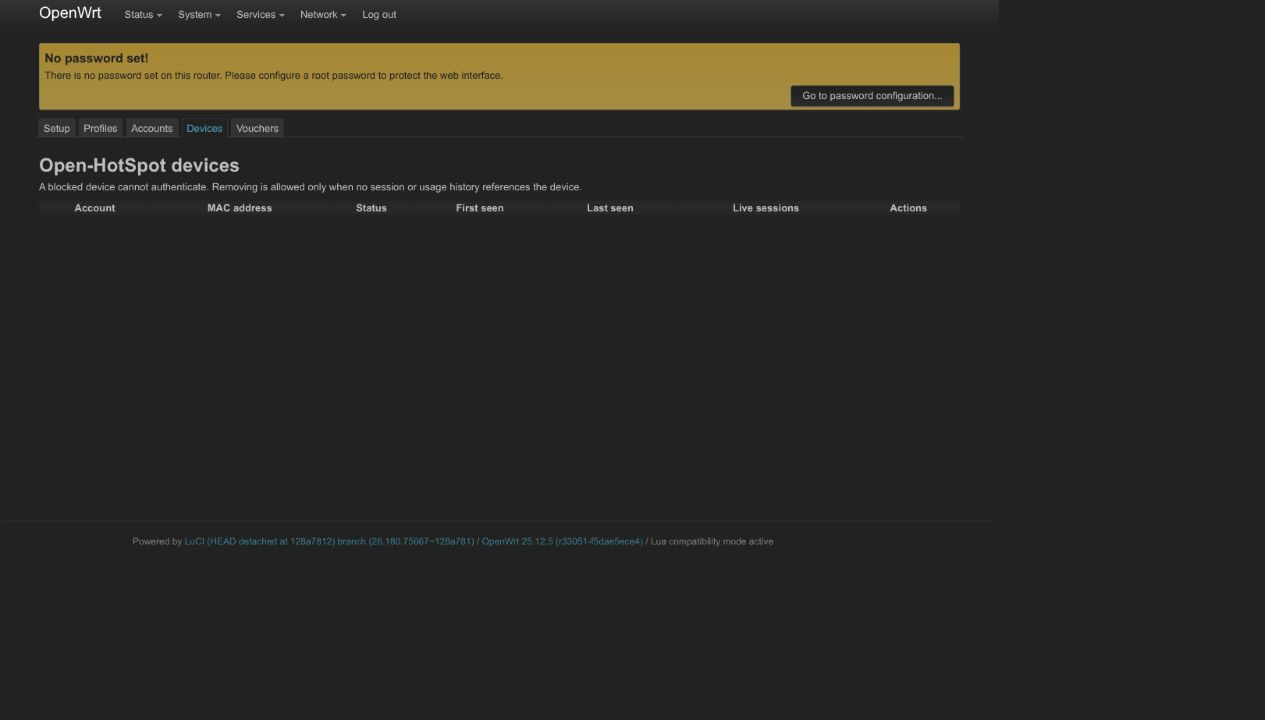
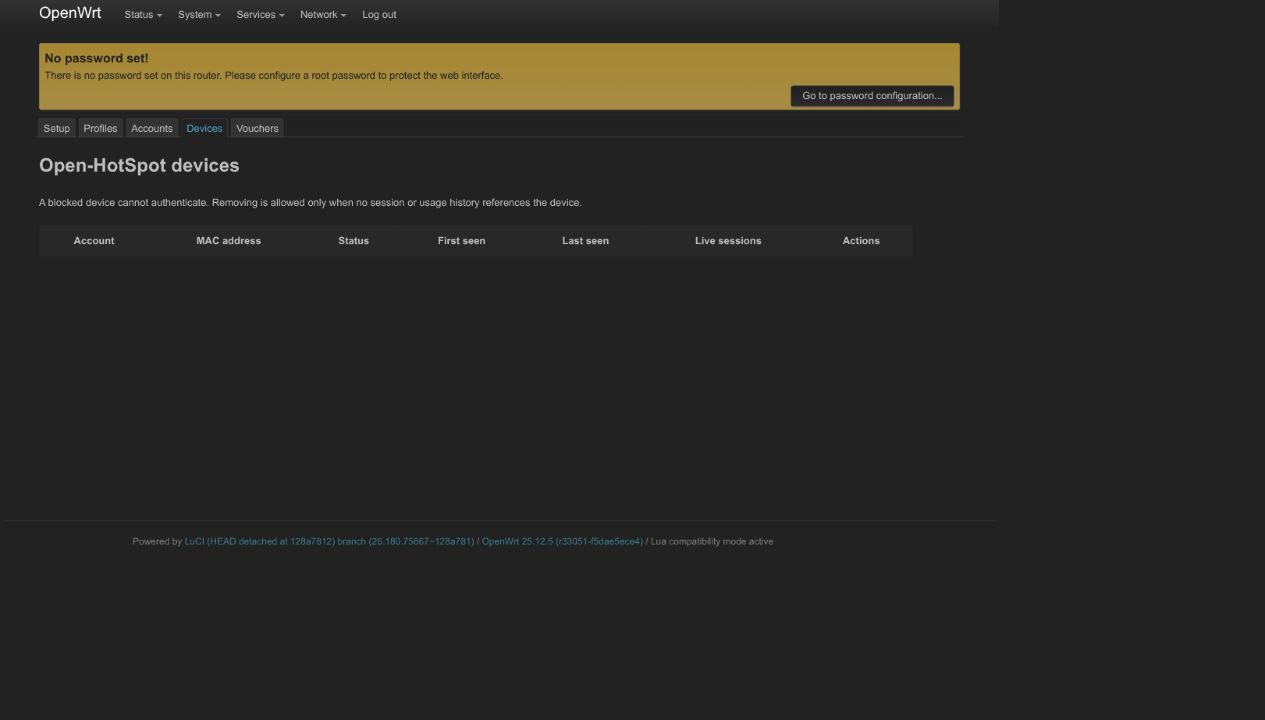
Improve FAS compatibility and LuCI layout

diff --git a/starter-kit/luasrc/view/open-hotspot/accounts.htm b/starter-kit/luasrc/view/open-hotspot/accounts.htm
@@ -1,11 +1,12 @@
 <%+header%>
+<div class="oh-page">
 <h2><%:Open-HotSpot accounts%></h2>
 <% if page_error ~= "" then %><div class="alert-message"><%=pcdata(page_error)%></div><% end %>
 <% if page_message ~= "" then %><div class="alert-message success"><%=pcdata(page_message)%></div><% end %>
 
 <fieldset class="cbi-section">
 <legend><%:Create account%></legend>
-<form method="post" action="<%=page_url%>">
+<form class="oh-form" method="post" action="<%=page_url%>">
 <input type="hidden" name="token" value="<%=pcdata(token)%>" /><input type="hidden" name="action" value="create" />
 <div class="cbi-value"><label><%:Username%></label><input name="username" required maxlength="64" /></div>
 <div class="cbi-value"><label><%:PIN%></label><input name="pin" required type="password" inputmode="numeric" minlength="4" maxlength="32" /></div>
@@ -15,27 +16,31 @@
 </form>
 </fieldset>
 
+<div class="oh-table-wrap">
 <table class="table cbi-section-table">
 <tr class="tr table-titles"><th><%:Username%></th><th><%:Profile%></th><th><%:Status%></th><th><%:Expiry%></th><th><%:Actions%></th></tr>
 <% for _, account in ipairs(accounts) do %>
 <tr class="tr">
 <td colspan="5">
-<form method="post" action="<%=page_url%>">
+<form class="oh-record-form oh-account-update" method="post" action="<%=page_url%>">
 <input type="hidden" name="token" value="<%=pcdata(token)%>" /><input type="hidden" name="action" value="update" /><input type="hidden" name="id" value="<%=account.id%>" />
-<input name="username" value="<%=pcdata(account.username)%>" maxlength="64" />
-<select name="profile_id"><% for _, p in ipairs(profiles) do %><option value="<%=p.id%>"<% if p.id == account.profile_id then %> selected<% end %>><%=pcdata(p.name)%></option><% end %></select>
-<select name="status"><option value="active"<% if account.status == "active" then %> selected<% end %>><%:active%></option><option value="suspended"<% if account.status == "suspended" then %> selected<% end %>><%:suspended%></option></select>
-<input name="expires_at" value="<%=pcdata(account.expires_at or "")%>" placeholder="YYYY-MM-DDTHH:MM:SSZ" />
+<label class="oh-field"><span><%:Username%></span><input name="username" value="<%=pcdata(account.username)%>" maxlength="64" /></label>
+<label class="oh-field"><span><%:Profile%></span><select name="profile_id"><% for _, p in ipairs(profiles) do %><option value="<%=p.id%>"<% if p.id == account.profile_id then %> selected<% end %>><%=pcdata(p.name)%></option><% end %></select></label>
+<label class="oh-field"><span><%:Status%></span><select name="status"><option value="active"<% if account.status == "active" then %> selected<% end %>><%:active%></option><option value="suspended"<% if account.status == "suspended" then %> selected<% end %>><%:suspended%></option></select></label>
+<label class="oh-field"><span><%:Expiry%></span><input name="expires_at" value="<%=pcdata(account.expires_at or "")%>" placeholder="YYYY-MM-DDTHH:MM:SSZ" /></label>
 <input class="cbi-button cbi-button-save" type="submit" value="<%:Save%>" />
 </form>
-<form method="post" action="<%=page_url%>">
+<form class="oh-inline-form" method="post" action="<%=page_url%>">
 <input type="hidden" name="token" value="<%=pcdata(token)%>" /><input type="hidden" name="action" value="set-pin" /><input type="hidden" name="id" value="<%=account.id%>" />
-<input name="pin" required type="password" inputmode="numeric" minlength="4" maxlength="32" placeholder="<%:New PIN%>" />
+<label class="oh-compact-field"><span><%:New PIN%></span><input name="pin" required type="password" inputmode="numeric" minlength="4" maxlength="32" placeholder="<%:New PIN%>" /></label>
 <input class="cbi-button cbi-button-save" type="submit" value="<%:Set PIN%>" />
 </form>
-<form method="post" action="<%=page_url%>"><input type="hidden" name="token" value="<%=pcdata(token)%>" /><input type="hidden" name="action" value="delete" /><input type="hidden" name="id" value="<%=account.id%>" /><input class="cbi-button cbi-button-reset" type="submit" value="<%:Delete%>" onclick="return confirm('<%:Suspend this account?%>');" /></form>
+<form class="oh-delete-form" method="post" action="<%=page_url%>"><input type="hidden" name="token" value="<%=pcdata(token)%>" /><input type="hidden" name="action" value="delete" /><input type="hidden" name="id" value="<%=account.id%>" /><input class="cbi-button cbi-button-reset" type="submit" value="<%:Delete%>" onclick="return confirm('<%:Suspend this account?%>');" /></form>
 </td>
 </tr>
 <% end %>
 </table>
+</div>
+ </div>
+<link rel="stylesheet" href="/luci-static/resources/open-hotspot.css">
 <%+footer%>

diff --git a/starter-kit/root/www/luci-static/resources/open-hotspot.css b/starter-kit/root/www/luci-static/resources/open-hotspot.css
@@ -1,0 +1,32 @@
+/* Open-HotSpot LuCI layout: consistent labels, controls, and responsive tables. */
+.oh-page { max-width: 1120px; }
+.oh-page h2 { margin-bottom: 1.25rem; }
+.oh-page fieldset.cbi-section { padding: 1rem 1.25rem 1.25rem; border-radius: .35rem; }
+.oh-page fieldset form { max-width: 860px; }
+.oh-page .cbi-value {
+	display: grid;
+	grid-template-columns: minmax(13rem, 31%) minmax(14rem, 1fr);
+	gap: .75rem 1.25rem;
+	align-items: center;
+	margin: .7rem 0;
+}
+.oh-page .cbi-value > label, .oh-page .oh-field > span, .oh-page .oh-compact-field > span { font-weight: 600; }
+.oh-page input:not([type="hidden"]), .oh-page select { box-sizing: border-box; width: 100%; min-height: 2.25rem; }
+.oh-page fieldset form > input[type="submit"] { margin-top: .7rem; margin-inline-start: calc(31% + 1.25rem); }
+.oh-page .oh-record-form { display: grid; grid-template-columns: repeat(auto-fit, minmax(175px, 1fr)); gap: .8rem; align-items: end; }
+.oh-page .oh-record-form > label, .oh-page .oh-field, .oh-page .oh-compact-field { display: grid; gap: .3rem; }
+.oh-page .oh-record-form > input[type="submit"] { min-height: 2.25rem; }
+.oh-page .oh-inline-form, .oh-page .oh-delete-form { display: inline-grid; grid-template-columns: minmax(150px, 1fr) auto; gap: .6rem; align-items: end; margin: .35rem .75rem .35rem 0; }
+.oh-page .oh-delete-form { display: inline-block; }
+.oh-page .oh-table-wrap { overflow-x: auto; margin-top: 1.25rem; }
+.oh-page table { min-width: 720px; width: 100%; }
+.oh-page th, .oh-page td { padding: .7rem .55rem; vertical-align: middle; }
+.oh-page tr:nth-child(even) { background: rgba(127, 127, 127, .08); }
+.oh-page .oh-account-update { grid-template-columns: repeat(auto-fit, minmax(165px, 1fr)); }
+@media (max-width: 700px) {
+	.oh-page .cbi-value { grid-template-columns: 1fr; gap: .35rem; }
+	.oh-page fieldset form > input[type="submit"] { margin-inline-start: 0; }
+	.oh-page fieldset.cbi-section { padding-inline: .8rem; }
+	.oh-page .oh-record-form { grid-template-columns: 1fr; }
+	.oh-page .oh-inline-form { display: grid; grid-template-columns: 1fr; width: 100%; }
+}

diff --git a/starter-kit/luasrc/view/open-hotspot/profiles.htm b/starter-kit/luasrc/view/open-hotspot/profiles.htm
@@ -1,11 +1,12 @@
 <%+header%>
+<div class="oh-page">
 <h2><%:Open-HotSpot profiles%></h2>
 <% if page_error ~= "" then %><div class="alert-message"><%=pcdata(page_error)%></div><% end %>
 <% if page_message ~= "" then %><div class="alert-message success"><%=pcdata(page_message)%></div><% end %>
 
 <fieldset class="cbi-section">
 <legend><%:Create profile%></legend>
-<form method="post" action="<%=page_url%>">
+<form class="oh-form" method="post" action="<%=page_url%>">
 <input type="hidden" name="token" value="<%=pcdata(token)%>" />
 <input type="hidden" name="action" value="create" />
 <div class="cbi-value"><label><%:Name%></label><input name="name" required maxlength="64" /></div>
@@ -20,11 +21,12 @@
 </form>
 </fieldset>
 
+<div class="oh-table-wrap">
 <table class="table cbi-section-table">
 <tr class="tr table-titles"><th><%:Name%></th><th><%:Period%></th><th><%:Time%></th><th><%:Data up/down%></th><th><%:Rates%></th><th><%:Devices%></th><th></th></tr>
 <% for _, p in ipairs(profiles) do %>
 <tr class="tr">
-<td colspan="6"><form method="post" action="<%=page_url%>">
+<td colspan="6"><form class="oh-record-form" method="post" action="<%=page_url%>">
 <input type="hidden" name="token" value="<%=pcdata(token)%>" /><input type="hidden" name="action" value="update" /><input type="hidden" name="id" value="<%=p.id%>" />
 <label><%:Name%> <input name="name" value="<%=pcdata(p.name)%>" maxlength="64" /></label>
 <label><%:Period%> <select name="period_type"><% for _, period in ipairs({"none","hourly","daily","monthly","yearly"}) do %><option value="<%=period%>"<% if p.period_type == period then %> selected<% end %>><%=period%></option><% end %></select></label>
@@ -40,4 +42,7 @@
 </tr>
 <% end %>
 </table>
+</div>
+</div>
+<link rel="stylesheet" href="/luci-static/resources/open-hotspot.css">
 <%+footer%>

diff --git a/starter-kit/luasrc/view/open-hotspot/devices.htm b/starter-kit/luasrc/view/open-hotspot/devices.htm
@@ -1,9 +1,11 @@
 <%+header%>
+<div class="oh-page">
 <h2><%:Open-HotSpot devices%></h2>
 <% if page_error ~= "" then %><div class="alert-message"><%=pcdata(page_error)%></div><% end %>
 <% if page_message ~= "" then %><div class="alert-message success"><%=pcdata(page_message)%></div><% end %>
 
 <p><%:A blocked device cannot authenticate. Removing is allowed only when no session or usage history references the device.%></p>
+<div class="oh-table-wrap">
 <table class="table cbi-section-table">
 <tr class="tr table-titles"><th><%:Account%></th><th><%:MAC address%></th><th><%:Status%></th><th><%:First seen%></th><th><%:Last seen%></th><th><%:Live sessions%></th><th><%:Actions%></th></tr>
 <% for _, device in ipairs(devices) do %>
@@ -24,4 +26,7 @@
 </tr>
 <% end %>
 </table>
+ </div>
+<link rel="stylesheet" href="/luci-static/resources/open-hotspot.css">
+</div>
 <%+footer%>

diff --git a/starter-kit/luasrc/view/open-hotspot/vouchers.htm b/starter-kit/luasrc/view/open-hotspot/vouchers.htm
@@ -1,4 +1,5 @@
 <%+header%>
+<div class="oh-page">
 <h2><%:Open-HotSpot vouchers%></h2>
 <% if page_error ~= "" then %><div class="alert-message"><%=pcdata(page_error)%></div><% end %>
 <% if page_message ~= "" then %><div class="alert-message success"><%=pcdata(page_message)%></div><% end %>
@@ -14,6 +15,7 @@
 </form>
 </fieldset>
 
+<div class="oh-table-wrap">
 <table class="table cbi-section-table">
 <tr class="tr table-titles"><th><%:Code%></th><th><%:Profile%></th><th><%:Validity%></th><th><%:Status%></th><th><%:Redeemed at%></th><th><%:Actions%></th></tr>
 <% for _, voucher in ipairs(vouchers) do %>
@@ -23,4 +25,7 @@
 </tr>
 <% end %>
 </table>
+ </div>
+<link rel="stylesheet" href="/luci-static/resources/open-hotspot.css">
+</div>
 <%+footer%>

diff --git a/starter-kit/root/www/nds/fas.php b/starter-kit/root/www/nds/fas.php
@@ -64,6 +64,12 @@ function decode_fas_payload(string $encoded): array
         }
     }
 
+    // The documented name is hid. Accept client_hid as a compatibility alias
+    // for deployments/clients that expose the same hashed token under that
+    // label, but never continue without a verified hid value.
+    if (!isset($values['hid']) && isset($values['client_hid'])) {
+        $values['hid'] = $values['client_hid'];
+    }
     foreach (['hid', 'clientmac', 'gatewayaddress', 'authdir'] as $required) {
         if (!isset($values[$required]) || $values[$required] === '') {
             fail_page('بيانات FAS الناقصة.');

diff --git a/README.md b/README.md
@@ -48,7 +48,7 @@ two concurrency guarantees — see commit history / test output).
 ## Physical-router checkpoint
 
 The OpenWrt 25.12.5 SDK package was built as
-`luci-app-open-hotspot 1.2.0-r14` and installed/tested on the Linksys EA8300 at
+`luci-app-open-hotspot 1.2.0-r15` and installed/tested on the Linksys EA8300 at
 `192.168.70.1`. The local FAS listener is active on port `2080`; the exact
 installation record, backup locations, SHA-256, rollback command, SDK/feed
 procedure, and remaining live-client gates are in
@@ -59,9 +59,13 @@ installed with nftset support. The package intentionally does not replace
 `dnsmasq` or silently alter the existing FAS configuration.
 
 The tested APK is available at
-[`dist/luci-app-open-hotspot-1.2.0-r14.apk`](dist/luci-app-open-hotspot-1.2.0-r14.apk)
+[`dist/luci-app-open-hotspot-1.2.0-r15.apk`](dist/luci-app-open-hotspot-1.2.0-r15.apk)
 with SHA-256
[2 lines of base64/hex data omitted]
+
+Release r15 also accepts the documented openNDS `hid` field and the
+`client_hid` compatibility spelling observed in some captive-client flows.
+Requests without a verified FAS payload remain rejected.
 
 ## Distribution
 

diff --git a/specs/001-open-hotspot/quickstart.md b/specs/001-open-hotspot/quickstart.md
@@ -57,10 +57,10 @@ The old application state was archived, not destroyed, at:
 
 The sysupgrade and state backups are stored locally under
 `.build/backups/20260917T003034Z.*`. The installed package is
-`luci-app-open-hotspot 1.2.0-r14`, built for `noarch` as an OpenWrt APK:
+`luci-app-open-hotspot 1.2.0-r15`, built for `noarch` as an OpenWrt APK:
 
 ```text
-sha256 a2b2cb0021bcdd7238b4b6c29351731d6f897b7063bfcdb3f4314eba86970ca8
+sha256 6e3b14cd68ff77dee35f4069506a37dc98d6f8d250c07c3f3992b951d18994fb
 ```
 
 The router now reports `BASE_READY`, local FAS level 1 on port `2080`, and
